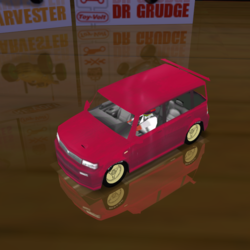
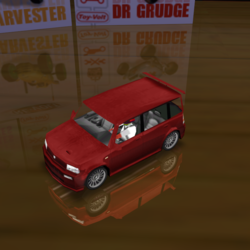
Scion xB updated photo/description

Changed region(s): [[0.168, 0.224, 0.84, 0.924], [0.224, 0.784, 0.252, 0.812]]

diff --git a/cars04.html b/cars04.html
@@ -56,7 +56,7 @@
                       <a href=
                       "https://minhaskamal.github.io/DownGit/#/home?url=https://github.com/instinctualjealousy/cars4rv/tree/main/scixbub">
                       <img src="carimg/scixbub.png" title=
-                      "This model's body is going to need to be re-converted."></a><br>
+                      "It's a flawed model, but it's been improved massively. Includes added hood scoop and wing over Ryuji's original model. Params that err on topsy-turvy at times."></a><br>
 
                       Scion xB
                     </td>
